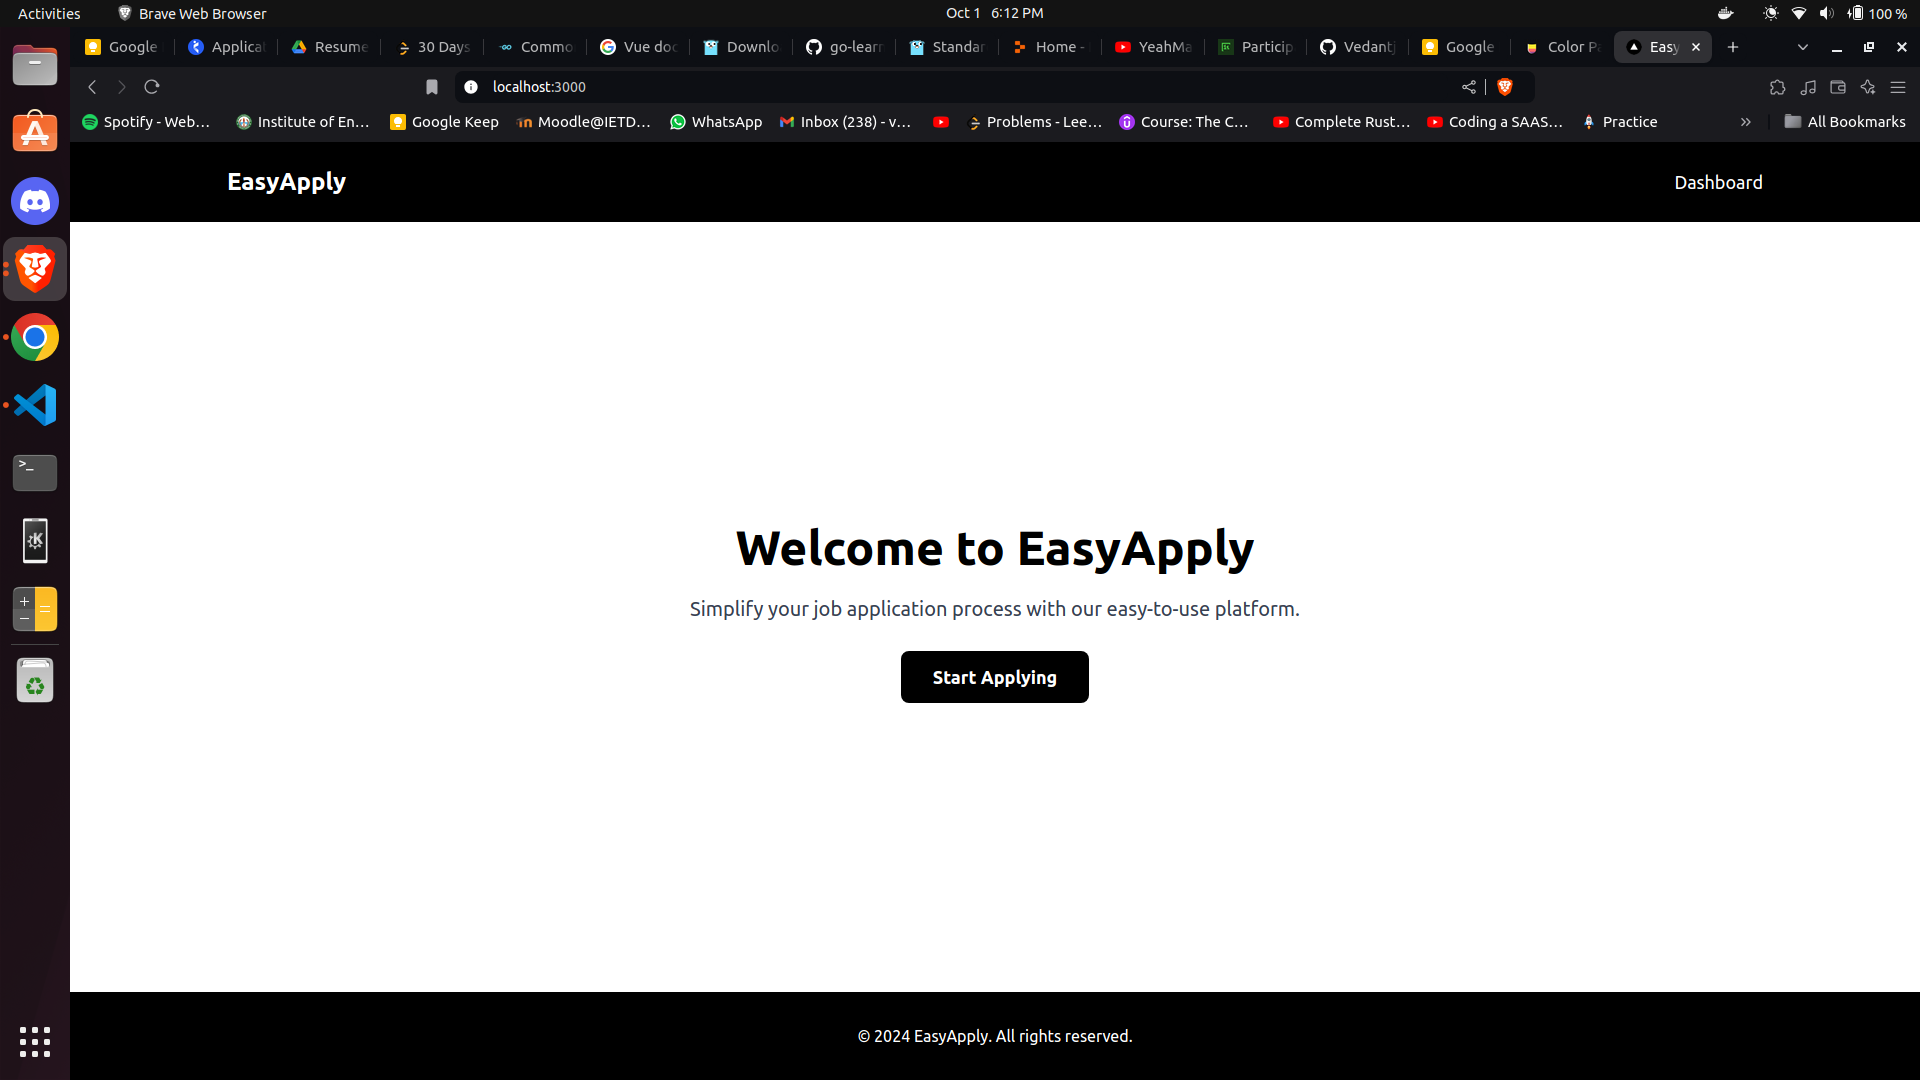
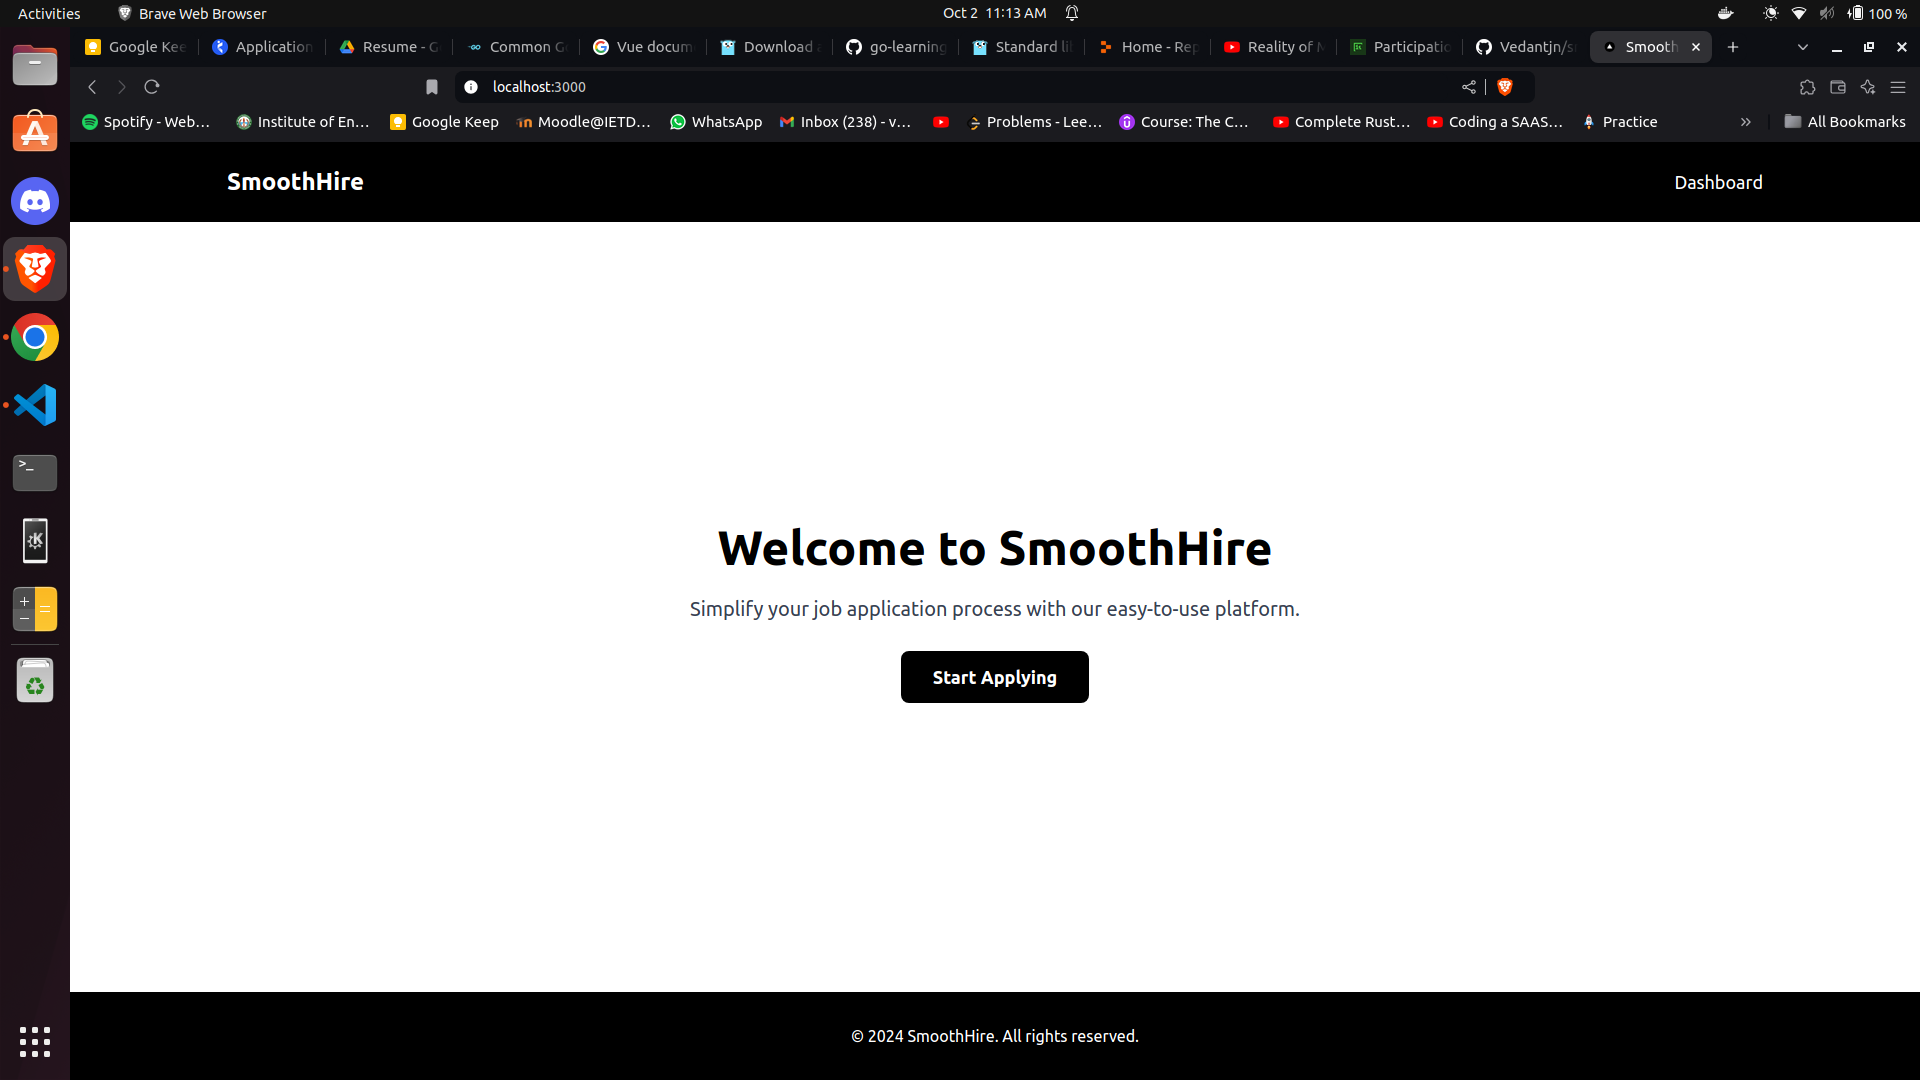
name updated

diff --git a/src/app/page.tsx b/src/app/page.tsx
@@ -1,4 +1,3 @@
-// src/app/page.tsx
 import Link from 'next/link'
 
 export default function Home() {
@@ -6,14 +5,14 @@ export default function Home() {
     <div className="flex flex-col min-h-screen">
       <header className="bg-black text-white py-6 px-4 sm:px-6 lg:px-8">
         <nav className="container mx-auto flex justify-between items-center">
-          <Link href="/" className="text-2xl font-bold">EasyApply</Link>
+          <Link href="/" className="text-2xl font-bold">SmoothHire</Link>
           <Link href="/dashboard" className="hover:underline text-lg">Dashboard</Link>
         </nav>
       </header>
 
       <main className="flex-grow container mx-auto px-4 sm:px-6 lg:px-8 py-12 sm:py-16 lg:py-20 bg-white text-black flex items-center justify-center">
         <div className="max-w-3xl mx-auto text-center">
-          <h1 className="text-4xl sm:text-5xl font-bold mb-6">Welcome to EasyApply</h1>
+          <h1 className="text-4xl sm:text-5xl font-bold mb-6">Welcome to SmoothHire</h1>
           <p className="text-xl mb-10 text-gray-700">Simplify your job application process with our easy-to-use platform.</p>
           <Link href="/apply" className="bg-black text-white px-8 py-4 rounded-lg text-lg font-semibold hover:bg-gray-800 transition-colors">
             Start Applying
@@ -23,7 +22,7 @@ export default function Home() {
 
       <footer className="bg-black text-white py-8 px-4 sm:px-6 lg:px-8">
         <div className="container mx-auto text-center">
-          <p>© 2024 EasyApply. All rights reserved.</p>
+          <p>© 2024 SmoothHire. All rights reserved.</p>
         </div>
       </footer>
     </div>

diff --git a/src/app/apply/page.tsx b/src/app/apply/page.tsx
@@ -10,7 +10,7 @@ export default function ApplyPage() {
     <div className="min-h-screen bg-white">
       <header className="bg-black text-white py-6 px-4 sm:px-6 lg:px-8">
         <div className="container mx-auto">
-          <Link href="/" className="text-3xl font-bold">EasyApply</Link>
+          <Link href="/" className="text-3xl font-bold">SmoothHire</Link>
         </div>
       </header>
 
@@ -25,7 +25,7 @@ export default function ApplyPage() {
 
       <footer className="bg-white py-8 px-4 sm:px-6 lg:px-8 mt-auto">
         <div className="container mx-auto text-center text-black">
-          <p>© 2024 EasyApply. All rights reserved.</p>
+          <p>© 2024 SmoothHire. All rights reserved.</p>
         </div>
       </footer>
     </div>

diff --git a/src/components/Navbar.tsx b/src/components/Navbar.tsx
@@ -4,7 +4,7 @@ export default function Navbar() {
   return (
     <nav className="bg-black text-white p-4">
       <div className="container mx-auto flex justify-between items-center">
-        <Link href="/" className="text-xl font-bold">EasyApply</Link>
+        <Link href="/" className="text-xl font-bold">SmoothHire</Link>
         <div>
           <Link href="/apply" className="mr-4 hover:text-gray-300">Apply</Link>
           <Link href="/dashboard" className="hover:text-gray-300">Dashboard</Link>

diff --git a/src/components/Footer.tsx b/src/components/Footer.tsx
@@ -2,7 +2,7 @@ export default function Footer() {
     return (
       <footer className="bg-gray-800 text-white p-4 mt-8">
         <div className="container mx-auto text-center">
-          <p>&copy; 2024 EasyApply. All rights reserved.</p>
+          <p>&copy; 2024 SmoothHire. All rights reserved.</p>
         </div>
       </footer>
     )

diff --git a/src/app/api/apply/route.ts b/src/app/api/apply/route.ts
@@ -4,7 +4,7 @@ import clientPromise from '@/lib/mongodb'
 export async function POST(request: Request) {
   try {
     const client = await clientPromise
-    const db = client.db("easyapply")
+    const db = client.db("smoothhire")
     
     const body = await request.json()
     const { name, email, phone, coverLetter, jobId } = body

diff --git a/src/app/layout.tsx b/src/app/layout.tsx
@@ -2,7 +2,7 @@
 import '@/styles/globals.css'
 
 export const metadata = {
-  title: 'EasyApply',
+  title: 'SmoothHire',
   description: 'Streamlined job application process',
 }
 

diff --git a/README.md b/README.md
@@ -1,13 +1,13 @@
-# 🤝 Contributing to Easy Apply
+# 🤝 Contributing to SmoothHire
 
-Thank you for considering contributing to Easy Apply! We're building a platform to simplify the job application process for both companies and job seekers. Our goal is to create a user-friendly portal similar to Workday or Zoho, but with a focus on ease of use and efficiency. We welcome contributions and new ideas to make this platform even better. 🚀
+Thank you for considering contributing to SmoothHire! We're building a platform to simplify the job application process for both companies and job seekers. Our goal is to create a user-friendly portal similar to Workday or Zoho, but with a focus on ease of use and efficiency. We welcome contributions and new ideas to make this platform even better. 🚀
 
-![Easy Apply Dashboard](/public/1.png)
+![SmoothHire Dashboard](/public/1.png)
 ![Apply](/public/2.png)
 
 ## ⭐ Star This Repository
 
-If you find Easy Apply useful, please give it a star! It helps others discover the project. 🌟
+If you find SmoothHire useful, please give it a star! It helps others discover the project. 🌟
 
 ## 🐛 Reporting Issues
 
@@ -31,10 +31,10 @@ We adhere to a code of conduct that promotes inclusivity. Please be respectful a
 
 ## 🔧 Help Us Improve
 
-Easy Apply is designed to be a comprehensive solution for companies looking to streamline their hiring process and for job seekers wanting a simplified application experience. Your contributions can help make this the go-to platform for both employers and applicants. 🏆
+SmoothHire is designed to be a comprehensive solution for companies looking to streamline their hiring process and for job seekers wanting a simplified application experience. Your contributions can help make this the go-to platform for both employers and applicants. 🏆
 
 ## 💼 For Companies
 
-If you're a company interested in using Easy Apply for your hiring needs, please contact us for more information on how we can tailor our solution to your requirements.
+If you're a company interested in using SmoothHire for your hiring needs, please contact us for more information on how we can tailor our solution to your requirements.
 
 Happy coding! 👨💻👩💻
